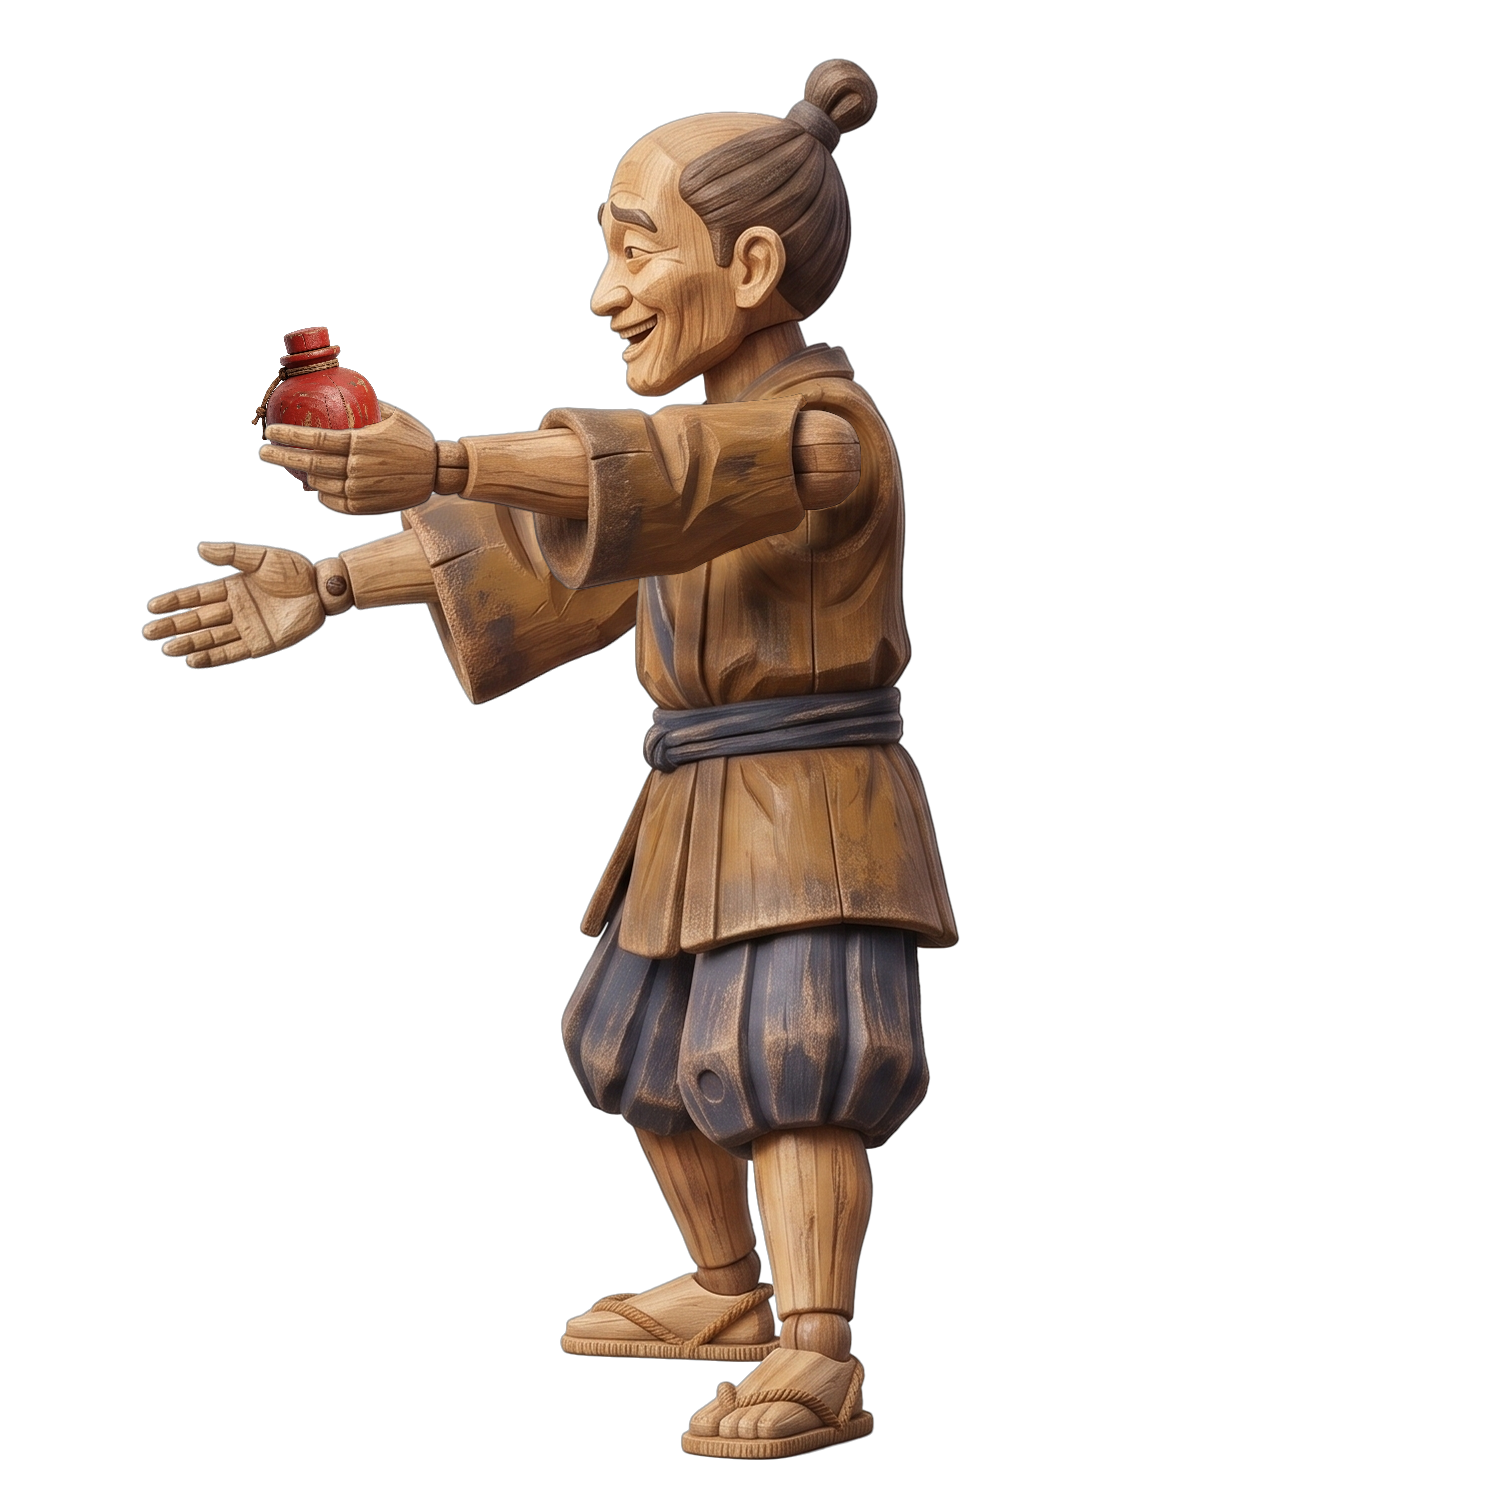
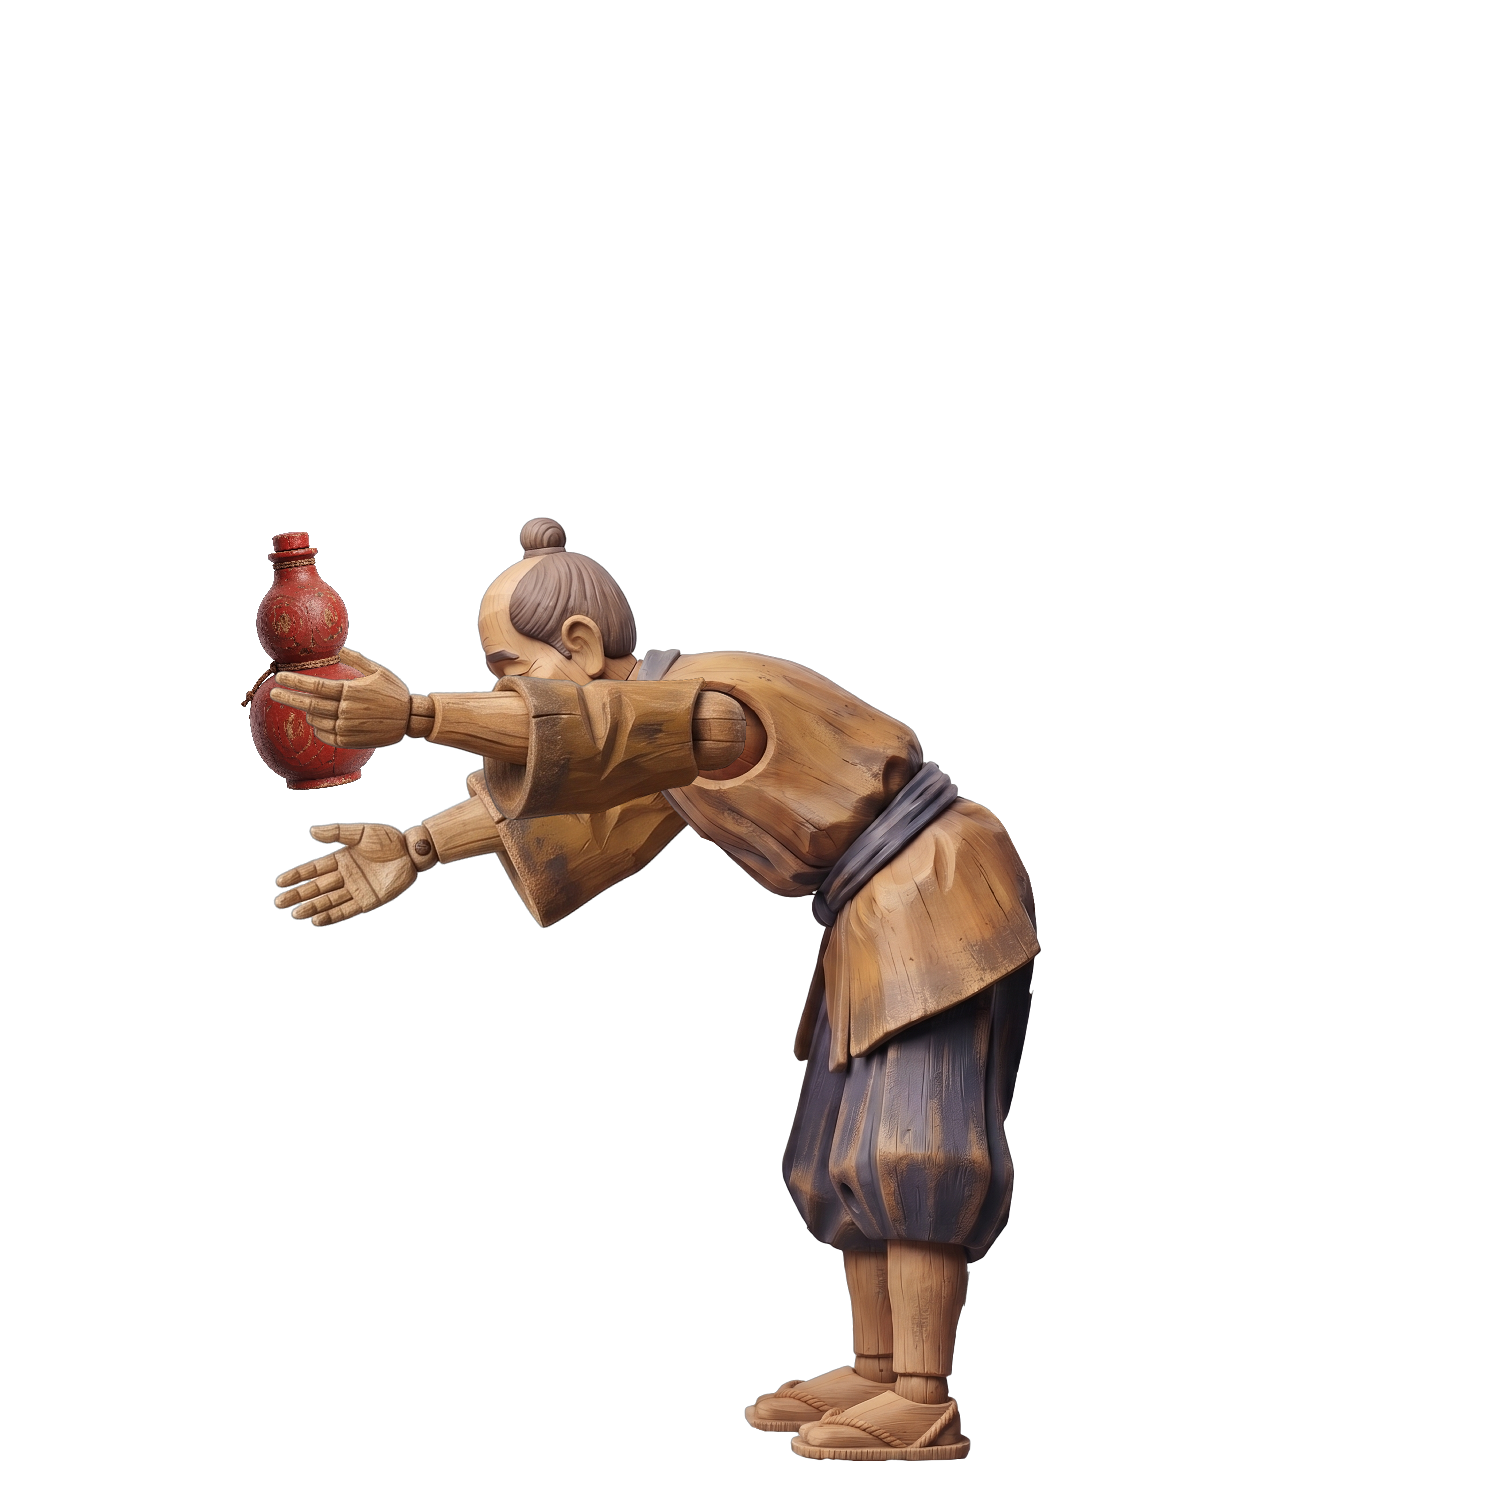
Retainer redone from the updated PDF: bowing standing body, gourd bottle; exporter groups poses by position

Changed region(s): [[0.092, 0.0307, 0.7053, 0.9813]]

diff --git a/tools/export_samurai_rig.py b/tools/export_samurai_rig.py
@@ -4,7 +4,7 @@ with their own matrices: the idle pose, a two-frame idle sway and the three stan
 An ARM is a chain: the upper arm turns about its shoulder (a point of the body), the forearm turns about the elbow (the ball of the upper arm, which sits in
 the forearm's socket). The shoulder, the elbows and the sockets are SOLVED from the PDF (the point that stays put in every frame), and every frame stores the
 two angles and scales, so the arm in between two frames is still joined at the shoulder and the elbow (see SamuraiRig).
-The Retainer is the same: his body (the picture of 401 x 1403) is fixed; his front arm turns about the shoulder and carries the bottle / the fan (and the sliver,
+The Retainer is the same: his body (the picture of 984 x 1644) is fixed; his front arm turns about the shoulder and carries the bottle / the fan (and the sliver,
 his thumb) at the hand. Bottle (idle), lower (the hand lowered before the throw), fan 1 / fan 2 are those; the gong poses and the kneeling pose are finished pictures.
 Pictures are found by SIZE (the PDF was saved again and the xref numbers changed once already).
 Output (never into samurai/: that folder is the user's own):
@@ -36,7 +36,7 @@ LAYOUT_R = os.path.join(HERE, "..", "scripts", "ui", "retainer_layout.gd")
 SAMURAI_BY_SIZE = {(533, 881): "body", (228, 147): "back", (248, 390): "thigh_l", (247, 392): "thigh_r", (226, 105): "foot_l", (225, 104): "foot_r",
 	(238, 141): "arm_l", (239, 141): "arm_r", (313, 651): "sword_long_a", (309, 652): "sword_long_b", (312, 408): "sword_short_a", (309, 416): "sword_short_b"}
 SHIN = (134, 252)  # two pictures of the same size: the one that stands further left in the idle pose is the left shin
-RETAINER_BY_SIZE = {(401, 1403): "body", (417, 558): "arm_back", (68, 46): "sliver", (530, 668): "bottle", (603, 198): "arm_front", (368, 536): "fan",
+RETAINER_BY_SIZE = {(984, 1644): "body", (417, 558): "arm_back", (68, 46): "sliver", (1371, 2566): "bottle", (603, 198): "arm_front", (368, 536): "fan",
 	(1234, 1047): "mallet_arm", (720, 566): "gong", (668, 1318): "yield"}
 FORES = ["sword_long_a", "sword_long_b", "sword_short_a", "sword_short_b"]
 PREVIEW = 1.0 / 4.149  # page points -> pixels of the 2000 px wide preview in which the rows were read
@@ -302,14 +302,13 @@ def main() -> None:
 	pose_names = ["bottle", "lower", "fan1", "fan2", "gong", "gong2"]
 	rfr = {}
 	rplace = {}
-	# the pictures of a frame are consecutive in the page's order; a frame starts with his back arm (or the mallet arm of the gong poses)
+	# the pictures of a pose are the ones nearest (across the page) to its body; paint order = the page's order
 	run = [(k, i) for k, i in enumerate(infos) if i["xref"] in rname and i["bbox"][1] > 4200 and rname[i["xref"]] != "yield"]
-	runs = []
+	bodies_x = [(k, (i["bbox"][0] + i["bbox"][2]) / 2) for k, i in rbodies]
+	runs = [[] for _ in bodies_x]
 	for k, i in run:
-		if rname[i["xref"]] in ("arm_back", "mallet_arm") or not runs:
-			runs.append([])
-		runs[-1].append((k, i))
-	assert len(runs) == 6, [len(r) for r in runs]
+		cx = (i["bbox"][0] + i["bbox"][2]) / 2
+		runs[min(range(len(bodies_x)), key=lambda n: abs(bodies_x[n][1] - cx))].append((k, i))
 	for n, mine in enumerate(runs):
 		bk, bi = next((k, i) for k, i in mine if i["xref"] == rb_x)
 		mine.sort(key=lambda t: t[0])
